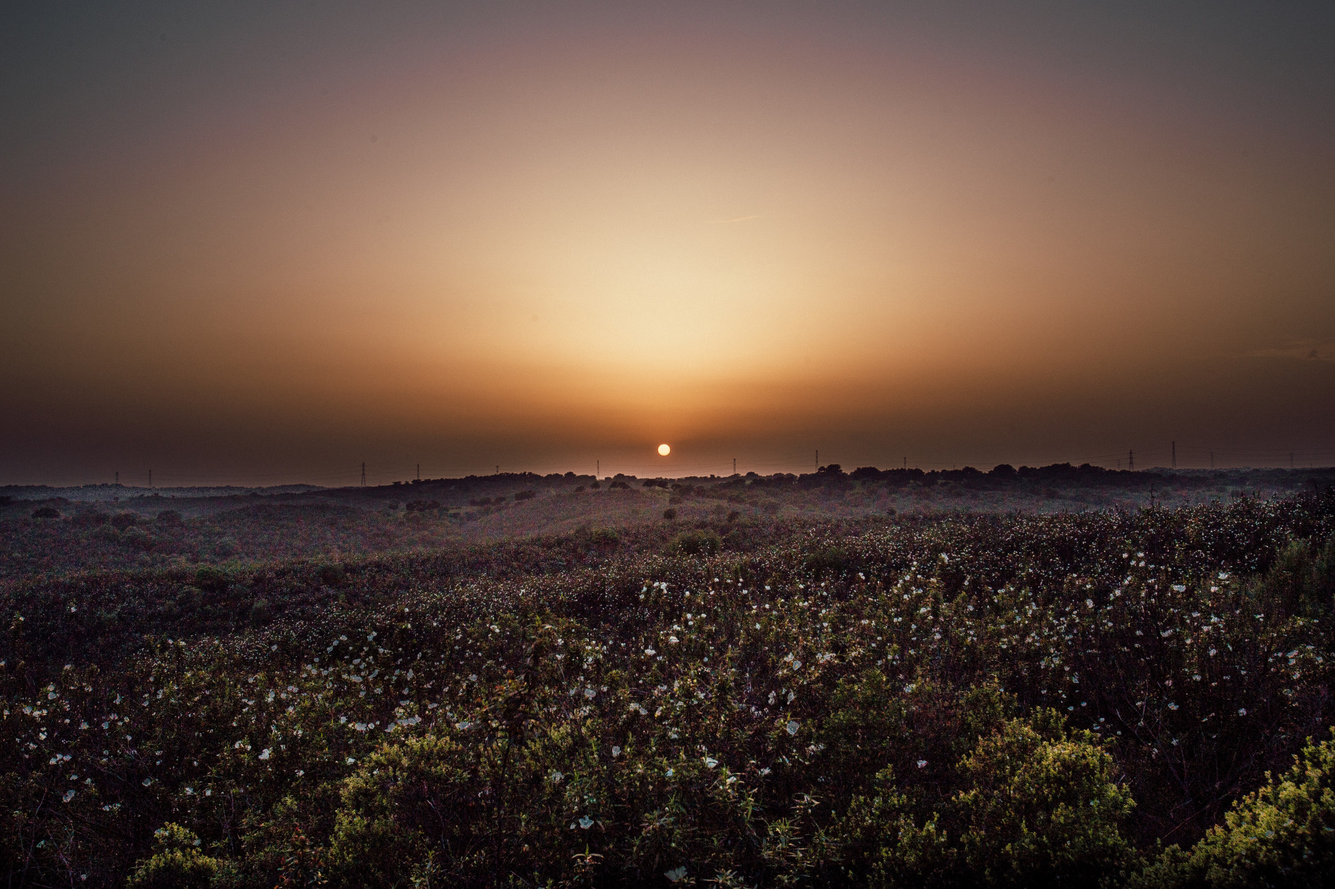
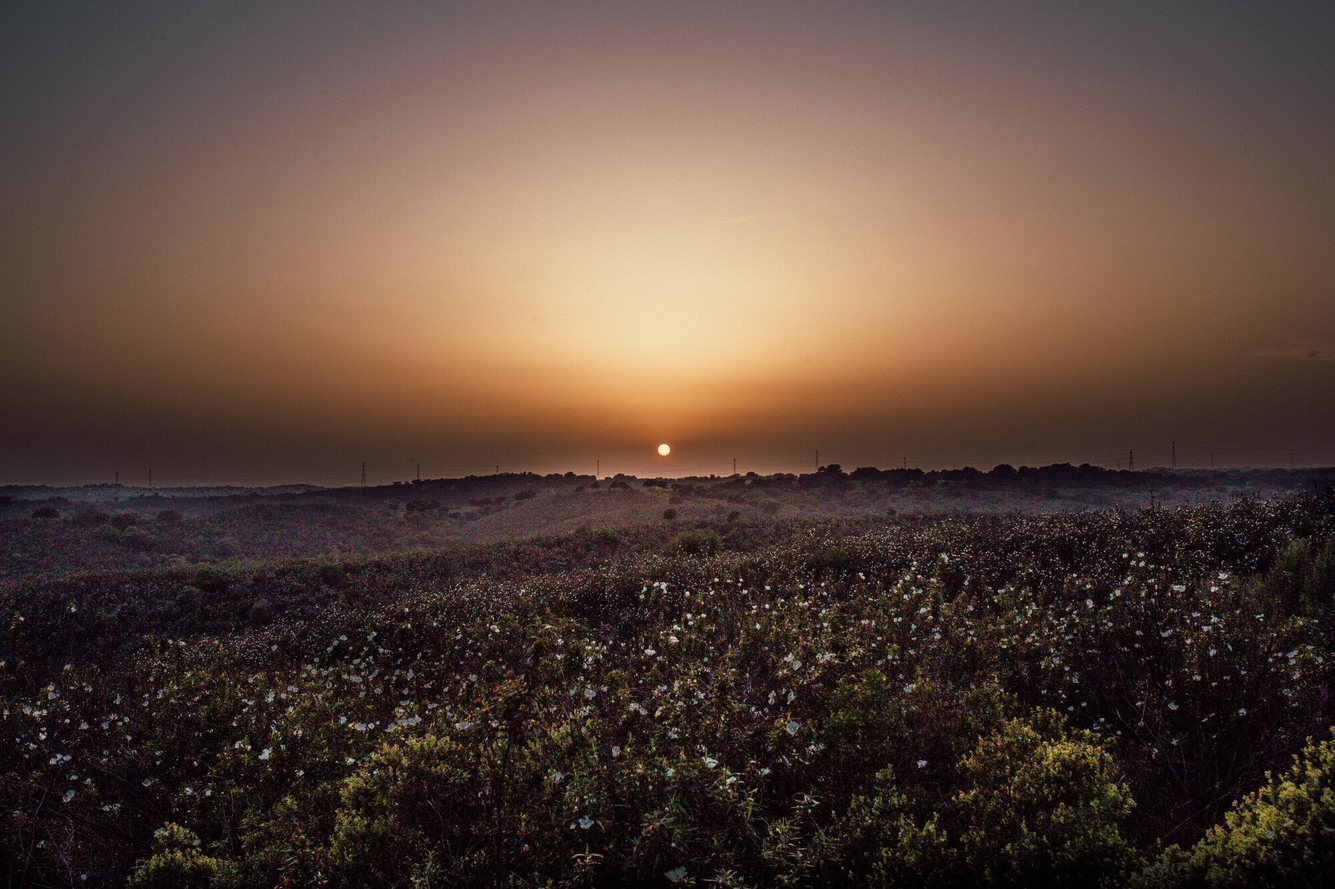
perf(portal): compress founders-hero.jpg from 1.79MB to 488KB (PL1)

diff --git a/DEV-IN-PROGRESS.md b/DEV-IN-PROGRESS.md
@@ -1,6 +1,12 @@
 # DEV-IN-PROGRESS.md — Desert Falcons Audit
 ---
 
+## RESOLVED — 2026-04-03 (nightly/2026-04-03)
+
+- **PL1 — RESOLVED 2026-04-03**: Compressed `images/founders-hero.jpg` from 1.79MB to 488KB (73% reduction) using ImageMagick. Quality 80, chroma subsampling 4:2:0, metadata stripped. Improves portal login page load time on mobile.
+
+---
+
 ## RESOLVED — 2026-03-30 (nightly/2026-03-30)
 
 - **M7 — RESOLVED 2026-03-30**: Added `<meta name="description" content="Member login for Desert Falcons Collective — the inner circle portal.">` to `portal/index.html`
@@ -198,9 +204,7 @@ All 19 uncommitted files from the 2026-03-25 session have been committed to this
 
 ### LOW
 
-**PL1 — Portal login page background image not lazy-loaded**
-- `founders-hero.jpg` as CSS background fires immediately
-- Consider compressing the image if load times are slow on mobile
+**PL1 — RESOLVED 2026-04-03**: Compressed `founders-hero.jpg` from 1.79MB to 488KB (73% reduction). See RESOLVED section above.
 
 **PL2 — No `favicon.svg` on portal pages** *(minor inconsistency)*
 - Portal pages: `favicon-dfc.png` only; public pages also have `favicon.svg`
@@ -225,14 +229,7 @@ All 19 uncommitted files from the 2026-03-25 session have been committed to this
 
 ## QUICK WIN PRIORITY ORDER (for next nightly agent)
 
-1. **Wire `jebel-tuwaiq.jpg` into `.tuwaiq-bg` in `vision.css`** (M8) — 2-line CSS fix, confirmed image exists
-2. **Add portal link to all 9 public nav menus** (H1) — find-replace friendly, 9 files
-3. **Add `<meta name="robots" content="noindex, nofollow">` to all 11 portal pages** (M6) — bulk find-replace
-4. **Add meta description to `portal/index.html` login page** (M7 priority) — single file, 1-line fix
-5. **Add canonical links to all 9 public pages** (M2) — bulk insert, know the Vercel URL
-6. **Fix join form field show/hide logic** (M3) — add `change` listener on `#interest` in `join-form.js`
-7. **Fix Arabic success state in `join-form.js`** (M4) — uses `window.DFC_i18n` or inline check
-8. **Add `robots.txt` and basic `sitemap.xml`** (L1) — new files, short
-9. **Swap `i18n.js` to load before `script.js` on all 9 public pages** (M5) — preventative
-10. **Add `maxlength` to discussion thread title/body inputs** (PM1)
-11. **Add `aria-label` to join submit button** (L8)
+1. **L5 — Remove redundant inline setTimeout loaders** from all 9 public pages — `script.js` handles this at ~2300ms, inline 2500ms timeout is redundant
+2. **PM2 — Verify Supabase storage bucket setup for avatar upload** — operators action, not agent work
+3. **PL2 — Add `favicon.svg` to portal pages** — cosmetic consistency only
+4. **PL3 — Verify admin analytics widget renders in production** — operators should verify role matching works
